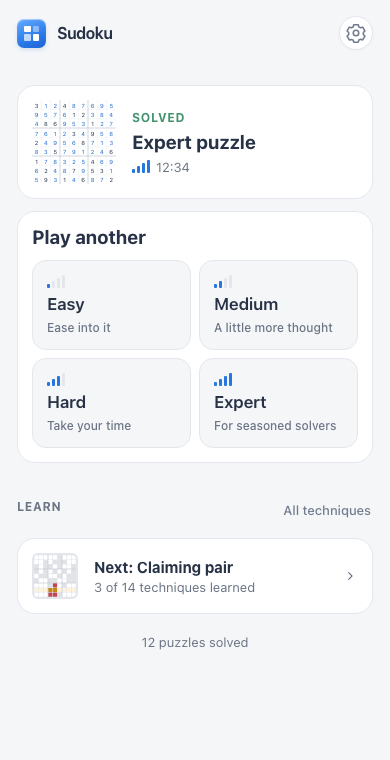
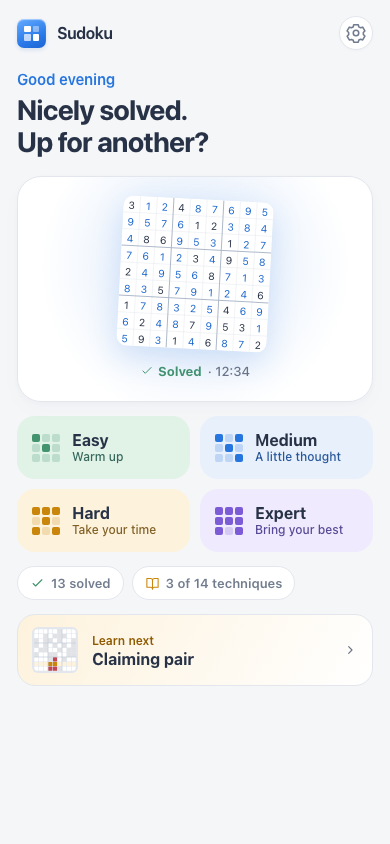
feat(home): warmer Home with a greeting, the board as hero, and color-coded levels

diff --git a/src/components/home.tsx b/src/components/home.tsx
@@ -6,29 +6,35 @@ import { AppMark, Icon } from './icons';
 import { LessonDiagram } from './learn-page';
 
 const LEVELS: Difficulty[] = ['easy', 'medium', 'hard', 'expert'];
-const LEVEL_NOTES: Record<Difficulty, string> = { easy: 'Ease into it', medium: 'A little more thought', hard: 'Take your time', expert: 'For seasoned solvers' };
+const LEVEL_NOTES: Record<Difficulty, string> = { easy: 'Warm up', medium: 'A little thought', hard: 'Take your time', expert: 'Bring your best' };
 const LESSON_COUNT = LESSON_BANDS.reduce((total, { lessons }) => total + lessons.length, 0);
 const capital = (text: string) => text[0].toUpperCase() + text.slice(1);
 const time = (seconds: number) => `${Math.floor(seconds / 60).toString().padStart(2, '0')}:${(seconds % 60).toString().padStart(2, '0')}`;
-const Bars = ({ level }: { level: Difficulty }) => <span className="level-mark" aria-hidden="true">{LEVELS.map((step, k) => <i key={step} className={k <= LEVELS.indexOf(level) ? 'active' : ''}/>)}</span>;
+// Shown on a first visit, before there is a game of the player's own.
+const SAMPLE = [...'530070000600195000098000060800060003400803001700020006060000280000419005000080079'].map(Number);
 
-function MiniBoard({ game, size }: { game: GameState; size: number }) {
+function MiniBoard({ values, givens, size }: { values: readonly number[]; givens: readonly number[]; size: number }) {
   return <svg className="home-board" width={size} height={size} viewBox="0 0 9 9" aria-hidden="true">
-    <rect width="9" height="9" rx=".4"/>
+    <rect width="9" height="9" rx=".45"/>
     {[1, 2, 4, 5, 7, 8].map(k => <g key={k} className="thin"><line x1={k} y1="0" x2={k} y2="9"/><line x1="0" y1={k} x2="9" y2={k}/></g>)}
     {[3, 6].map(k => <g key={k}><line x1={k} y1="0" x2={k} y2="9"/><line x1="0" y1={k} x2="9" y2={k}/></g>)}
-    {game.values.map((value, i) => value ? <text key={i} x={i % 9 + .5} y={Math.floor(i / 9) + .56} className={game.givens[i] ? 'given' : 'entered'}>{value}</text> : null)}
+    {values.map((value, i) => value ? <text key={i} x={i % 9 + .5} y={Math.floor(i / 9) + .56} className={givens[i] ? 'given' : 'entered'}>{value}</text> : null)}
   </svg>;
 }
 
+/** A 3×3 of tiles, more of them filled the harder the level. */
+const LevelTiles = ({ level }: { level: Difficulty }) => <span className="level-tiles" aria-hidden="true">
+  {Array.from({ length: 9 }, (_, k) => <i key={k} className={[0, 4, 8, 2, 6, 1, 3, 5, 7].indexOf(k) < 2 + LEVELS.indexOf(level) * 2 ? 'on' : ''}/>)}
+</span>;
+
 export type HomeProps = {
-  state: HomeState; game: GameState | null; seconds: number | null; learned: number; next: LessonId | null; solved: number;
+  state: HomeState; game: GameState | null; seconds: number | null; learned: number; next: LessonId | null; solved: number; greeting: string;
   onContinue: () => void; onPlay: (level: Difficulty) => void; onLesson: (id: LessonId) => void; onLearn: () => void; onSettings: () => void;
   notice?: React.ReactNode;
 };
 
-export function Home({ state, game, seconds, learned, next, solved, onContinue, onPlay, onLesson, onLearn, onSettings, notice }: HomeProps) {
-  const clock = seconds === null ? '' : ` · ${time(seconds)}`;
+export function Home({ state, game, seconds, learned, next, solved, greeting, onContinue, onPlay, onLesson, onLearn, onSettings, notice }: HomeProps) {
+  const clock = seconds === null ? '' : time(seconds);
   return <>
     <header className="app-bar">
       <h1 className="brand"><AppMark small/><span>Sudoku</span></h1>
@@ -36,40 +42,39 @@ export function Home({ state, game, seconds, learned, next, solved, onContinue, 
     </header>
     <main className="game home">
       {notice}
-      {state === 'playing' && game && <section className="home-card home-continue" aria-labelledby="home-continue">
-        <MiniBoard game={game} size={132}/>
-        <div className="home-continue-copy">
-          <span className="home-eyebrow">In progress</span>
-          <h2 id="home-continue">{capital(game.difficulty)} puzzle</h2>
-          <span className="home-meta"><Bars level={game.difficulty}/>{percentFilled(game)}% filled{clock}</span>
-          <button className="primary-button home-continue-button" onClick={onContinue}>Continue</button>
+      <p className="home-hello">{greeting}</p>
+      {state === 'playing' && game ? <>
+        <h2 className="home-title" id="home-continue">Your {game.difficulty} puzzle<br/>is right where you left it</h2>
+        <button className="home-hero home-continue-button" aria-label={`Continue, ${percentFilled(game)}% filled`} onClick={onContinue}>
+          <MiniBoard values={game.values} givens={game.givens} size={196}/>
+          <span className="home-meta" aria-hidden="true">{[`${percentFilled(game)}% filled`, clock].filter(Boolean).join(' · ')}</span>
+          <span className="home-go" aria-hidden="true"><Icon name="play" size={16}/>Continue</span>
+        </button>
+      </> : state === 'done' && game ? <>
+        <h2 className="home-title" id="home-solved">Nicely solved.<br/>Up for another?</h2>
+        <div className="home-hero quiet">
+          <MiniBoard values={game.values} givens={game.givens} size={150}/>
+          <span className="home-meta"><span className="home-eyebrow solved"><Icon name="check" size={14}/>Solved</span>{clock && ` · ${clock}`}</span>
         </div>
-      </section>}
-      {state === 'done' && game && <section className="home-card home-solved" aria-labelledby="home-solved">
-        <MiniBoard game={game} size={84}/>
-        <div className="home-continue-copy">
-          <span className="home-eyebrow solved">Solved</span>
-          <h2 id="home-solved">{capital(game.difficulty)} puzzle</h2>
-          <span className="home-meta"><Bars level={game.difficulty}/>{clock.replace(' · ', '')}</span>
-        </div>
-      </section>}
-      {state === 'playing' ? <>
-        <h2 className="home-heading">New puzzle</h2>
-        <div className="home-levels">{LEVELS.map(level => <button key={level} className="home-level" onClick={() => onPlay(level)} aria-label={`New ${level} puzzle`}><Bars level={level}/><span>{capital(level)}</span></button>)}</div>
-      </> : <section className="home-card home-start" aria-labelledby="home-start">
-        <h2 id="home-start">{state === 'new' ? 'Pick your first puzzle' : 'Play another'}</h2>
-        <div className="home-levels big">{LEVELS.map(level => <button key={level} className="home-level" onClick={() => onPlay(level)} aria-label={`New ${level} puzzle: ${LEVEL_NOTES[level]}`}><Bars level={level}/><span>{capital(level)}</span><small>{LEVEL_NOTES[level]}</small></button>)}</div>
-      </section>}
-      <div className="home-heading-row"><h2 className="home-heading">Learn</h2><button className="text-button home-all" onClick={onLearn}>All techniques</button></div>
-      {next ? <button className="home-card home-lesson" onClick={() => onLesson(next)}>
+      </> : <>
+        <h2 className="home-title" id="home-start">Ready for<br/>your first puzzle?</h2>
+        <div className="home-hero quiet" aria-hidden="true"><MiniBoard values={SAMPLE} givens={SAMPLE} size={150}/></div>
+      </>}
+      <div className="home-levels">{LEVELS.map(level => <button key={level} className={`home-level level-${level}`} onClick={() => onPlay(level)} aria-label={`New ${level} puzzle: ${LEVEL_NOTES[level]}`}>
+        <LevelTiles level={level}/><strong>{capital(level)}</strong><small>{LEVEL_NOTES[level]}</small>
+      </button>)}</div>
+      <div className="home-chips">
+        {solved > 0 && <span className="home-chip home-solved-count"><Icon name="check" size={15}/>{solved} solved</span>}
+        <button className="home-chip home-all" aria-label="All techniques" onClick={onLearn}><Icon name="learn" size={15}/>{learned ? `${learned} of ${LESSON_COUNT} techniques` : `${LESSON_COUNT} techniques`}</button>
+      </div>
+      {next ? <button className="home-lesson" onClick={() => onLesson(next)}>
         <LessonDiagram id={next}/>
-        <span className="home-lesson-copy"><strong>{learned ? 'Next' : 'Start with'}: {lessonName(next)}</strong><span className="home-meta">{learned} of {LESSON_COUNT} techniques learned</span></span>
+        <span className="home-lesson-copy"><small>{learned ? 'Learn next' : 'New to Sudoku? Start here'}</small><strong>{lessonName(next)}</strong></span>
         <Icon name="chevron" size={16}/>
-      </button> : <button className="home-card home-lesson" onClick={onLearn}>
-        <span className="home-lesson-copy"><strong>Every technique learned</strong><span className="home-meta">Revisit any lesson</span></span>
+      </button> : <button className="home-lesson" onClick={onLearn}>
+        <span className="home-lesson-copy"><small>Every technique learned</small><strong>Revisit any lesson</strong></span>
         <Icon name="chevron" size={16}/>
       </button>}
-      {solved > 0 && <p className="home-foot">{solved} {solved === 1 ? 'puzzle' : 'puzzles'} solved</p>}
     </main>
   </>;
 }

diff --git a/src/app/globals.css b/src/app/globals.css
@@ -3,7 +3,7 @@
   --note-red: #92545e; --note-blue: #346da8; --canvas: #f5f6f8; --surface: #fff; --ink: #273246; --secondary: #717c8e; --muted: #6b7485;
   --blue: #2776df; --blue-strong: #1965cd; --blue-soft: #e8f0fc; --selection: #d6e7ff;
   --possible: #e1f2e7; --peer: #f2f6fc; --matching: #e1edff; --line: #e3e7ed; --box-line: #adb9ca;
-  --red: #c24752; --red-soft: #ffedf0; --green: #42936e; --hint: #c9860a; --hint-soft: #fdf2dc; --hint-strong: #8f5a00;
+  --red: #c24752; --red-soft: #ffedf0; --green: #42936e; --purple: #7c5cd6; --purple-soft: #efeafd; --hint: #c9860a; --hint-soft: #fdf2dc; --hint-strong: #8f5a00;
   --shadow: 0 2px 5px #23395507, 0 8px 24px #23395505;
 }
 @media (prefers-color-scheme: dark) {
@@ -12,7 +12,7 @@
     --note-red: #d8adb3; --note-blue: #9ac5ff; --canvas: #181c24; --surface: #222833; --ink: #e2e7ef; --secondary: #98a5b8; --muted: #98a5b8;
     --blue: #72a9ff; --blue-strong: #9ac2ff; --blue-soft: #263952; --selection: #2e527e;
     --possible: #294738; --peer: #283241; --matching: #304665; --line: #333d4c; --box-line: #637289;
-    --red: #ffa0a9; --red-soft: #4a303d; --green: #7dc8a4; --hint: #f2b84b; --hint-soft: #40361f; --hint-strong: #f2b84b;
+    --red: #ffa0a9; --red-soft: #4a303d; --green: #7dc8a4; --purple: #b7a2ff; --purple-soft: #332a4d; --hint: #f2b84b; --hint-soft: #40361f; --hint-strong: #f2b84b;
     --shadow: 0 3px 14px #00000012;
   }
 }
@@ -21,7 +21,7 @@
   --note-red: #d8adb3; --note-blue: #9ac5ff; --canvas: #181c24; --surface: #222833; --ink: #e2e7ef; --secondary: #98a5b8; --muted: #98a5b8;
   --blue: #72a9ff; --blue-strong: #9ac2ff; --blue-soft: #263952; --selection: #2e527e;
   --possible: #294738; --peer: #283241; --matching: #304665; --line: #333d4c; --box-line: #637289;
-  --red: #ffa0a9; --red-soft: #4a303d; --green: #7dc8a4; --hint: #f2b84b; --hint-soft: #40361f; --hint-strong: #f2b84b;
+  --red: #ffa0a9; --red-soft: #4a303d; --green: #7dc8a4; --purple: #b7a2ff; --purple-soft: #332a4d; --hint: #f2b84b; --hint-soft: #40361f; --hint-strong: #f2b84b;
   --shadow: 0 3px 14px #00000012;
 }
 * { box-sizing: border-box; }
@@ -258,32 +258,44 @@ h1,h2,h3,p { margin: 0; }
 .learn-cell.blue { fill: color-mix(in srgb, var(--blue) 45%, var(--surface)); }
 @media (hover: hover) { .learn-row:hover { border-color: var(--box-line); } }
 .learn-heading { margin: 0; font-size: 16px; font-weight: 700; }
-.home { display: flex; flex-direction: column; gap: 12px; padding-bottom: 24px; }
+.home { display: flex; flex-direction: column; gap: 14px; margin-top: 4px; padding-bottom: 24px; }
+.home-hello { margin: 0; font-size: 15px; font-weight: 600; color: var(--blue); }
+.home-title { margin: -8px 0 4px; font-size: 28px; line-height: 1.15; letter-spacing: -.8px; font-weight: 720; }
 .home-board rect { fill: var(--surface); }
 .home-board line { stroke: var(--box-line); stroke-width: .06; }
 .home-board .thin line { stroke: var(--line); stroke-width: .03; }
 .home-board text { font-size: .62px; text-anchor: middle; dominant-baseline: central; fill: var(--ink); }
 .home-board text.entered { fill: var(--blue-strong); }
-.home-card { display: flex; align-items: center; gap: 16px; width: 100%; padding: 14px; border-radius: 18px; background: var(--surface); border: 1px solid var(--line); text-align: left; color: var(--ink); }
-.home-card h2 { margin: 0; font-size: 19px; }
-.home-continue { align-items: stretch; }
-.home-continue-copy { flex: 1; display: flex; flex-direction: column; gap: 6px; min-width: 0; }
-.home-continue-button { margin-top: auto; }
-.home-eyebrow { font-size: 12px; font-weight: 700; letter-spacing: .06em; text-transform: uppercase; color: var(--hint-strong); }
+.home-hero { position: relative; display: flex; flex-direction: column; align-items: center; gap: 14px; width: 100%; padding: 24px 0 34px; border-radius: 24px; background: radial-gradient(circle at 50% 40%, color-mix(in srgb, var(--blue) 16%, var(--surface)), var(--surface) 70%); border: 1px solid var(--line); box-shadow: var(--shadow); color: var(--ink); }
+.home-hero .home-board { transform: rotate(-3deg); border-radius: 10px; box-shadow: 0 10px 30px color-mix(in srgb, var(--blue) 18%, transparent); animation: home-float 5s ease-in-out infinite; }
+.home-hero.quiet { padding: 22px 0; margin-bottom: 0; }
+.home-hero.quiet .home-board { transform: rotate(3deg); animation: none; }
+.home-hero:not(.quiet) + .home-levels { margin-top: 16px; }
+@keyframes home-float { 50% { transform: translateY(-4px) rotate(-2deg); } }
+.home-meta { display: flex; align-items: center; gap: 6px; font-size: 13px; font-weight: 500; color: var(--muted); }
+.home-eyebrow { display: inline-flex; align-items: center; gap: 4px; font-weight: 700; }
 .home-eyebrow.solved { color: var(--green); }
-.home-meta { display: flex; align-items: center; gap: 6px; font-size: 13px; color: var(--muted); }
-.home-heading { margin: 12px 0 0; font-size: 12px; letter-spacing: .06em; text-transform: uppercase; color: var(--muted); }
-.home-heading-row { display: flex; align-items: center; justify-content: space-between; margin-top: 12px; }
-.home-heading-row .home-heading { margin: 0; }
-.home-all { width: auto; min-height: 32px; padding: 0 2px; font-size: 13px; }
-.home-levels { display: grid; grid-template-columns: repeat(4, 1fr); gap: 8px; }
-.home-level { display: flex; flex-direction: column; align-items: center; gap: 8px; min-height: 64px; padding: 14px 4px; border-radius: 14px; background: var(--surface); border: 1px solid var(--line); font-size: 14px; font-weight: 600; color: var(--ink); }
-.home-start { flex-direction: column; align-items: stretch; gap: 12px; }
-.home-levels.big { grid-template-columns: repeat(2, 1fr); }
-.home-levels.big .home-level { align-items: flex-start; gap: 6px; padding: 14px; background: var(--canvas); }
-.home-levels.big .home-level span { font-size: 17px; }
-.home-levels.big .home-level small { font-size: 12px; font-weight: 500; color: var(--muted); text-align: left; }
-.home-lesson-copy { flex: 1; display: flex; flex-direction: column; gap: 3px; }
+.home-go { position: absolute; bottom: -19px; display: inline-flex; align-items: center; gap: 8px; padding: 11px 26px; border-radius: 99px; background: linear-gradient(#3584ed, #2471db); color: white; font-weight: 650; box-shadow: 0 6px 16px #2471db55; }
+.level-easy { --level: var(--green); --level-soft: var(--possible); }
+.level-medium { --level: var(--blue); --level-soft: var(--blue-soft); }
+.level-hard { --level: var(--hint); --level-soft: var(--hint-soft); }
+.level-expert { --level: var(--purple); --level-soft: var(--purple-soft); }
+.level-tiles { display: grid; grid-template-columns: repeat(3, 8px); gap: 2px; }
+.level-tiles i { width: 8px; height: 8px; border-radius: 2px; background: color-mix(in srgb, var(--level) 22%, transparent); }
+.level-tiles i.on { background: var(--level); }
+.home-levels { display: grid; grid-template-columns: 1fr 1fr; gap: 10px; }
+.home-level { display: grid; grid-template-columns: auto 1fr; column-gap: 12px; align-items: center; padding: 14px; border-radius: 18px; background: var(--level-soft); border: 1.5px solid transparent; text-align: left; }
+.home-level .level-tiles { grid-row: span 2; }
+.home-level strong { font-size: 16px; color: var(--ink); }
+.home-level small { font-size: 12px; font-weight: 500; color: color-mix(in srgb, var(--level) 55%, var(--ink)); }
+.home-chips { display: flex; gap: 8px; flex-wrap: wrap; }
+.home-chip { display: inline-flex; align-items: center; gap: 6px; min-height: 34px; padding: 0 12px; border-radius: 99px; background: var(--surface); border: 1px solid var(--line); font-size: 13px; font-weight: 600; color: var(--secondary); }
+.home-chip svg { color: var(--green); }
+.home-all svg { color: var(--hint); }
+.home-lesson { display: flex; align-items: center; gap: 14px; width: 100%; padding: 12px 14px; border-radius: 18px; background: linear-gradient(120deg, var(--hint-soft), var(--surface)); border: 1px solid var(--line); text-align: left; color: var(--ink); }
+.home-lesson-copy { flex: 1; display: flex; flex-direction: column; gap: 2px; }
+.home-lesson-copy small { font-size: 12px; font-weight: 600; color: var(--hint-strong); }
+.home-lesson-copy strong { font-size: 16px; }
 .home-lesson > svg:last-child { flex-shrink: 0; transform: rotate(-90deg); color: var(--muted); }
-.home-foot { margin: 8px 0 0; text-align: center; font-size: 13px; color: var(--muted); }
-@media (hover: hover) { .home-level:hover, .home-lesson:hover { border-color: var(--box-line); } }
+@media (hover: hover) { .home-level:hover { border-color: color-mix(in srgb, var(--level) 45%, transparent); } .home-lesson:hover, .home-chip.home-all:hover, .home-hero:not(.quiet):hover { border-color: var(--box-line); } }
+@media (prefers-reduced-motion: reduce) { .home-hero .home-board { animation: none; } }

diff --git a/src/components/game.tsx b/src/components/game.tsx
@@ -18,7 +18,7 @@ import { WalkthroughOverlay, WalkthroughPanel } from './hint-walkthrough';
 import { grade, hasLesson, LEARNED_KEY, LESSON_BANDS, lessonName, lessonOf, markLearned, practiceGame, readLearned, sameBoard, type Grade, type Learned, type LessonId } from '@/lib/lessons';
 import { LearnPage } from './learn-page';
 import { Home } from './home';
-import { homeState, nextLesson, readSolved, savedSeconds, SOLVED_KEY, storeSolved } from '@/lib/home';
+import { greeting, homeState, nextLesson, readSolved, savedSeconds, SOLVED_KEY, storeSolved } from '@/lib/home';
 import { LESSON_BANK } from '@/lib/lesson-bank';
 import { findStep } from '@/lib/steps';
 import { LessonBar, LessonDone, LessonFooter, LessonPrompt } from './lesson';
@@ -78,7 +78,7 @@ export default function SudokuGame() {
   const [held, setHeld] = useState<Held | null>(null);
   const [learnOpen, setLearnOpen] = useState(false);
   const [view, setView] = useState<'home' | 'game'>('home');
-  const [homeData, setHomeData] = useState<{ seconds: number | null; learned: Learned; solved: number }>({ seconds: null, learned: {}, solved: 0 });
+  const [homeData, setHomeData] = useState<{ seconds: number | null; learned: Learned; solved: number; greeting: string }>({ seconds: null, learned: {}, solved: 0, greeting: greeting(12) });
   const [learned, setLearned] = useState<Learned>({});
   const away = held !== null;
   // Watching, reading feedback, or done: the board is for looking at, so nothing may change it.
@@ -357,7 +357,7 @@ export default function SudokuGame() {
   const showBoard = (start: GameState) => { setGame(start); resetSelection(); setBlockedEntry(null); setFocusedDigit(null); setCelebration(null); setSelected(Math.max(0, start.values.indexOf(0))); };
   /** Home's numbers come from storage, read when Home is shown rather than during render. */
   function refreshHome(current: GameState | null) {
-    try { setHomeData({ seconds: current ? savedSeconds(localStorage.getItem(CLOCK_KEY), current.id) : null, learned: readLearned(localStorage.getItem(LEARNED_KEY)), solved: readSolved(localStorage.getItem(SOLVED_KEY)).length }); }
+    try { setHomeData({ seconds: current ? savedSeconds(localStorage.getItem(CLOCK_KEY), current.id) : null, learned: readLearned(localStorage.getItem(LEARNED_KEY)), solved: readSolved(localStorage.getItem(SOLVED_KEY)).length, greeting: greeting(new Date().getHours()) }); }
     catch { /* Home still works without its numbers. */ }
   }
   const showHome = (focus: string) => { setView('home'); refreshHome(held ? held.game : game); focusAfterRender.current = focus; };
@@ -471,7 +471,7 @@ export default function SudokuGame() {
   const onHome = view === 'home' && !lesson;
   return <div className="app" onKeyDown={onHome ? undefined : handleKey}>
     {onHome ? busy && !game ? <header className="app-bar"><h1 className="brand"><AppMark small/><span>Sudoku</span></h1></header> : <Home state={homeState(game)} game={game} seconds={preferences.hideTimer ? null : homeData.seconds} learned={LESSON_BANDS.flatMap(band => band.lessons).filter(id => homeData.learned[id]).length}
-      next={nextLesson(homeData.learned)} solved={homeData.solved} onContinue={continueGame} onPlay={playLevel} onLesson={id => openLesson(id, 'home')} onLearn={openLearn} onSettings={() => openSheet('settings')}
+      next={nextLesson(homeData.learned)} solved={homeData.solved} greeting={homeData.greeting} onContinue={continueGame} onPlay={playLevel} onLesson={id => openLesson(id, 'home')} onLearn={openLearn} onSettings={() => openSheet('settings')}
       notice={<>{error && <div className="notice" role="alert"><span>{error}</span><button onClick={() => setError('')} aria-label="Dismiss message"><Icon name="close" size={16}/></button></div>}{storageError && <p className="storage-warning" role="status">Saving is unavailable in this browser. Keep this tab open to continue your puzzle.</p>}</>}/> : <>
     {lesson ? <LessonBar name={lessonName(lesson.id)} done={lessonDone} current={lesson.phase === 'practice' ? lesson.board - 1 : null} count={lessonBoards.length - 1} back={{ hint: 'Your game', list: 'Learn', home: 'Home' }[lesson.from]} onExit={exitLesson}/> : <header className="app-bar">
       <h1 className="brand"><AppMark small/><span>Sudoku</span></h1>

diff --git a/e2e/home.spec.ts b/e2e/home.spec.ts
@@ -9,9 +9,10 @@ const seed = (page: Page, game: string) => page.addInitScript(([key, value]) => 
 
 test('a first visit offers the four difficulties and the first lesson, and starts a puzzle on request', async ({ page }) => {
   await page.goto('/');
-  await expect(page.getByRole('heading', { name: 'Pick your first puzzle' })).toBeVisible();
+  await expect(page.getByRole('heading', { name: 'Ready for your first puzzle?' })).toBeVisible();
   await expect(page.locator('.board')).toHaveCount(0);
-  await expect(page.locator('.home-lesson strong')).toHaveText('Start with: Naked single');
+  await expect(page.locator('.home-lesson strong')).toHaveText('Naked single');
+  await expect(page.locator('.home-solved-count')).toHaveCount(0);
   await page.getByRole('button', { name: /^New easy puzzle/ }).click();
   await expect(page.locator('.board .cell').first()).toBeVisible();
   await expect(page.getByRole('button', { name: 'Home' })).toBeVisible();
@@ -20,7 +21,7 @@ test('a first visit offers the four difficulties and the first lesson, and start
 test('the app opens on Home with the game waiting, and Home is one tap away from the game', async ({ page }) => {
   await seed(page, inProgress);
   await page.goto('/');
-  await expect(page.getByRole('heading', { name: 'Expert puzzle' })).toBeVisible();
+  await expect(page.getByRole('heading', { name: /^Your expert puzzle/ })).toBeVisible();
   const before = await saved(page);
   await page.getByRole('button', { name: 'Continue' }).click();
   await expect(page.locator('.board')).toBeVisible();
@@ -54,10 +55,10 @@ test('a finished game shows as solved with Play another', async ({ page }) => {
   const game = JSON.parse(inProgress);
   await seed(page, JSON.stringify({ ...game, values: game.solution }));
   await page.goto('/');
-  await expect(page.getByRole('heading', { name: 'Play another' })).toBeVisible();
+  await expect(page.getByRole('heading', { name: /^Nicely solved/ })).toBeVisible();
   await expect(page.locator('.home-eyebrow.solved')).toHaveText('Solved');
   await expect(page.getByRole('button', { name: 'Continue' })).toHaveCount(0);
-  await expect(page.locator('.home-foot')).toHaveText('1 puzzle solved');
+  await expect(page.locator('.home-solved-count')).toHaveText('1 solved');
 });
 
 test('the game timer does not run on Home', async ({ page }) => {
@@ -76,7 +77,7 @@ test('a save that cannot be restored says so on Home', async ({ page }) => {
   await seed(page, '{"not":"a game"}');
   await page.goto('/');
   await expect(page.locator('.notice[role="alert"]')).toContainText('could not be restored');
-  await expect(page.getByRole('heading', { name: 'Pick your first puzzle' })).toBeVisible();
+  await expect(page.getByRole('heading', { name: 'Ready for your first puzzle?' })).toBeVisible();
 });
 
 const almostSolved = () => {
@@ -95,7 +96,7 @@ test('solving a puzzle of any difficulty adds to the solved count on Home', asyn
   await page.keyboard.press(String(digit));
   await expect(page.locator('.completion')).toBeVisible();
   await page.getByRole('button', { name: 'Home' }).click();
-  await expect(page.locator('.home-foot')).toHaveText('1 puzzle solved');
+  await expect(page.locator('.home-solved-count')).toHaveText('1 solved');
 });
 
 test('restarting from Home’s settings resets the time', async ({ page }) => {
@@ -107,7 +108,7 @@ test('restarting from Home’s settings resets the time', async ({ page }) => {
   await page.getByRole('button', { name: 'Settings' }).click();
   await page.getByRole('button', { name: /^Restart/ }).first().click();
   await page.getByRole('button', { name: /^Restart/ }).last().click();
-  await expect(page.locator('.home-continue .home-meta')).toContainText('00:00');
+  await expect(page.locator('.home-continue-button .home-meta')).toContainText('00:00');
   await page.getByRole('button', { name: 'Continue' }).click();
   await expect(page.locator('.clock')).toHaveText(/^00:0[01]$/);
 });

diff --git a/tests/home.test.ts b/tests/home.test.ts
@@ -1,6 +1,6 @@
 import { test } from 'node:test';
 import assert from 'node:assert/strict';
-import { homeState, nextLesson, percentFilled, savedSeconds } from '../src/lib/home.ts';
+import { greeting, homeState, nextLesson, percentFilled, savedSeconds } from '../src/lib/home.ts';
 import { createGame } from '../src/lib/game.ts';
 import { buildPuzzle } from '../src/lib/sudoku.ts';
 import { LESSON_BANDS } from '../src/lib/lessons.ts';
@@ -43,4 +43,11 @@ test('solved games are counted once each, whatever their difficulty, and bad sto
   assert.deepEqual(readSolved('{"ids":["a"]}'), ['a']);
   assert.deepEqual(recordSolved(recordSolved([], 'easy-1'), 'easy-1'), ['easy-1']);
   assert.deepEqual(recordSolved(['easy-1'], 'hard-2'), ['easy-1', 'hard-2']);
+});
+
+test('the greeting follows the time of day', () => {
+  assert.equal(greeting(2), 'Up late');
+  assert.equal(greeting(8), 'Good morning');
+  assert.equal(greeting(13), 'Good afternoon');
+  assert.equal(greeting(20), 'Good evening');
 });

diff --git a/src/lib/home.ts b/src/lib/home.ts
@@ -34,3 +34,6 @@ export const serializeSolved = (ids: readonly string[]) => JSON.stringify({ ids 
 export function storeSolved(id: string) {
   try { localStorage.setItem(SOLVED_KEY, serializeSolved(recordSolved(readSolved(localStorage.getItem(SOLVED_KEY)), id))); } catch { /* The count is optional. */ }
 }
+
+/** Home's hello, by the hour it is read. */
+export const greeting = (hour: number) => hour < 5 ? 'Up late' : hour < 12 ? 'Good morning' : hour < 18 ? 'Good afternoon' : 'Good evening';

diff --git a/docs/plans/2026-09-27-home-screen-design.md b/docs/plans/2026-09-27-home-screen-design.md
@@ -4,15 +4,18 @@ The app opened straight into a game, and Learn sat behind a small book button. A
 
 ## Direction
 
-Sean chose A from three renders (continue first, two tiles, menu), after seeing its first-visit and just-finished states. The app opens on Home every time.
+Sean first chose A (continue first), then judged the built version too utilitarian for the first screen. From a second round (D greeting, E stage, F journey) he chose D: a warm greeting, the board as the hero, and color-coded levels. The app opens on Home every time.
 
 ## Home
 
-- **Game in progress:** a card with a mini board, difficulty, percent filled, time, and a Continue button. Below it, four difficulty buttons start a new puzzle. They open the existing new-puzzle sheet, preset to that difficulty, because it already warns that the current puzzle will be replaced.
-- **First visit** (no saved game): "Pick your first puzzle", with the four difficulties and their notes as the main card. The app no longer generates a puzzle before the player asks for one.
-- **Just finished:** a small Solved card (board and time), then "Play another" with the four difficulties.
-- **Learn:** a card for the next unlearned lesson, easiest first ("Start with" when none are learned). Tapping it opens that lesson, which returns to Home. "All techniques" opens the Learn page, which also returns to Home.
-- A solved count sits at the bottom once there is one. Settings opens the existing settings sheet.
+- **Greeting:** "Good morning", "Good afternoon", "Good evening", or "Up late", from the hour when Home is shown.
+- **Game in progress:** "Your expert puzzle is right where you left it". The board floats, slightly tilted, in a hero card with percent filled and time; the whole card is the Continue button.
+- **First visit** (no saved game): "Ready for your first puzzle?" over a decorative sample board. The app no longer generates a puzzle before the player asks for one.
+- **Just finished:** "Nicely solved. Up for another?" over the solved board, marked Solved, with its time.
+- **Levels:** four color tiles (easy green, medium blue, hard amber, expert purple). Each has a small 3×3 that fills in more as the level gets harder. They open the existing new-puzzle sheet when a game is in progress, since it warns before replacing it.
+- **Chips:** the solved count (once there is one) and techniques learned. The techniques chip opens the Learn page.
+- **Learn:** a card for the next unlearned lesson, easiest first. It opens that lesson, which returns to Home.
+- Hide timer also hides the time on Home.
 
 ## Game screen
 
@@ -21,5 +24,5 @@ Sean chose A from three renders (continue first, two tiles, menu), after seeing 
 
 ## Tests
 
-- **Unit:** home state (new, playing, done), percent filled, next lesson, and reading the saved time.
+- **Unit:** home state (new, playing, done), percent filled, next lesson, the saved time, the solved list, and the greeting.
 - **Browser:** every state of Home; continue and return with the game unchanged; start a first puzzle; a new puzzle from Home replaces the game only after the sheet's confirmation; the next lesson and All techniques both return to Home. Existing browser tests enter the game through Continue.
